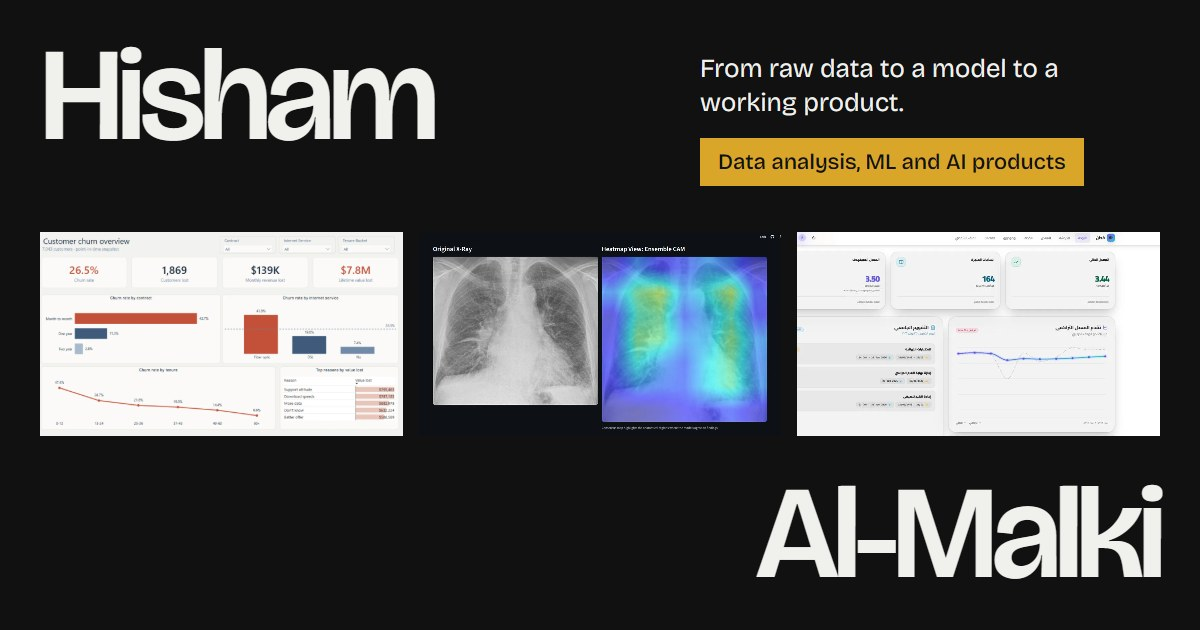
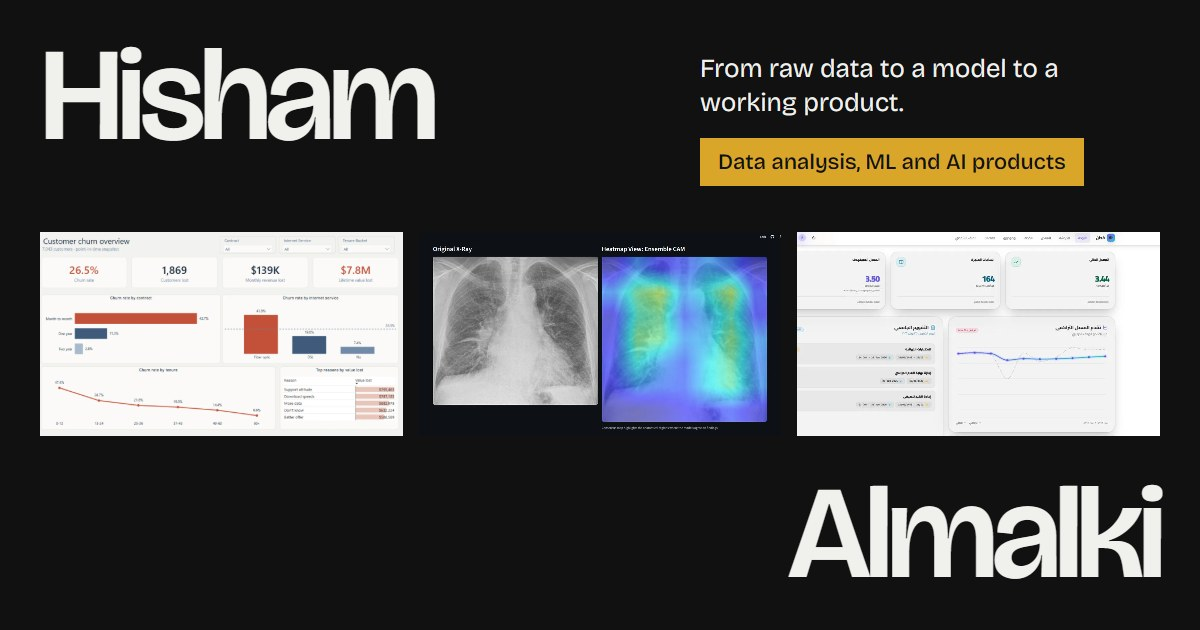
Spell the name Hisham Almalki, as on the CV and certificate
Hero, footer wordmark, copyright, title, meta, Open Graph, Twitter,
JSON-LD, the share image and the README.

Changed region(s): [[0.6167, 0.754, 0.8325, 0.9349]]

diff --git a/index.html b/index.html
@@ -3,22 +3,22 @@
   <head>
     <meta charset="UTF-8" />
     <meta name="viewport" content="width=device-width, initial-scale=1.0" />
-    <title>Hisham Al-Malki · data, models and the products around them</title>
-    <meta name="description" content="Hisham Al-Malki, Computer Science graduate of Umm Al-Qura University. Projects that go from raw data to a model to a working product: telecom churn analysis, a chest X-ray deep-learning ensemble, and Faten, an AI academic assistant." />
+    <title>Hisham Almalki · data, models and the products around them</title>
+    <meta name="description" content="Hisham Almalki, Computer Science graduate of Umm Al-Qura University. Projects that go from raw data to a model to a working product: telecom churn analysis, a chest X-ray deep-learning ensemble, and Faten, an AI academic assistant." />
     <link rel="canonical" href="https://hisham-cs.github.io/portfolio/" />
     <meta name="theme-color" content="#111111" />
     <meta name="color-scheme" content="light" />
 
     <meta property="og:type" content="website" />
     <meta property="og:url" content="https://hisham-cs.github.io/portfolio/" />
-    <meta property="og:title" content="Hisham Al-Malki" />
+    <meta property="og:title" content="Hisham Almalki" />
     <meta property="og:description" content="From raw data to a model to a working product. Data analysis, machine learning and AI products." />
     <meta property="og:image" content="https://hisham-cs.github.io/portfolio/og-image.jpg" />
     <meta property="og:image:width" content="1200" />
     <meta property="og:image:height" content="630" />
-    <meta property="og:image:alt" content="Hisham Al-Malki, with one product from each of three projects" />
+    <meta property="og:image:alt" content="Hisham Almalki, with one product from each of three projects" />
     <meta name="twitter:card" content="summary_large_image" />
-    <meta name="twitter:title" content="Hisham Al-Malki" />
+    <meta name="twitter:title" content="Hisham Almalki" />
     <meta name="twitter:description" content="From raw data to a model to a working product." />
     <meta name="twitter:image" content="https://hisham-cs.github.io/portfolio/og-image.jpg" />
 
@@ -31,7 +31,7 @@
       {
         "@context": "https://schema.org",
         "@type": "Person",
-        "name": "Hisham Al-Malki",
+        "name": "Hisham Almalki",
         "url": "https://hisham-cs.github.io/portfolio/",
         "email": "mailto:hasalmalki@outlook.com",
         "alumniOf": { "@type": "CollegeOrUniversity", "name": "Umm Al-Qura University" },
@@ -44,7 +44,7 @@
   <body>
     <div id="root"></div>
     <noscript>
-      <p style="padding:24px;font:18px/1.5 system-ui,sans-serif">Hisham Al-Malki, Computer Science graduate. This site needs JavaScript. Reach me at hasalmalki@outlook.com, github.com/hisham-cs or linkedin.com/in/hisham-a-almalki.</p>
+      <p style="padding:24px;font:18px/1.5 system-ui,sans-serif">Hisham Almalki, Computer Science graduate. This site needs JavaScript. Reach me at hasalmalki@outlook.com, github.com/hisham-cs or linkedin.com/in/hisham-a-almalki.</p>
     </noscript>
     <script type="module" src="/src/main.jsx"></script>
   </body>

diff --git a/src/data/site.js b/src/data/site.js
@@ -1,9 +1,9 @@
 import { natural } from './images.js'
 
 export const profile = {
-  name: 'Hisham Al-Malki',
+  name: 'Hisham Almalki',
   first: 'Hisham',
-  last: 'Al‑Malki', // non-breaking hyphen keeps the surname on one line
+  last: 'Almalki',
   intro:
     'I’m a Computer Science graduate of Umm Al-Qura University. I take a problem from raw data to a model to a product people use, and I’m looking for data analyst and AI engineer roles.',
   fact: 'Based in Makkah. BSc Computer Science, Umm Al-Qura University, 2026.',

diff --git a/src/index.css b/src/index.css
@@ -1,4 +1,4 @@
-/* Hisham Al-Malki — direction M (the name as a monument), Ochre colour system.
+/* Hisham Almalki — direction M (the name as a monument), Ochre colour system.
    Every colour is a token below; values and their measured WCAG ratios come
    from design-exploration/round-3/palettes.mjs and contrast.md. */
 

diff --git a/README.md b/README.md
@@ -1,6 +1,6 @@
-# Hisham Al-Malki — Portfolio
+# Hisham Almalki — Portfolio
 
-Personal site of Hisham Al-Malki, Computer Science graduate of Umm Al-Qura University: three projects, each taken from raw data to a model to a working product.
+Personal site of Hisham Almalki, Computer Science graduate of Umm Al-Qura University: three projects, each taken from raw data to a model to a working product.
 
 **Live:** [hisham-cs.github.io/portfolio](https://hisham-cs.github.io/portfolio/)
 
